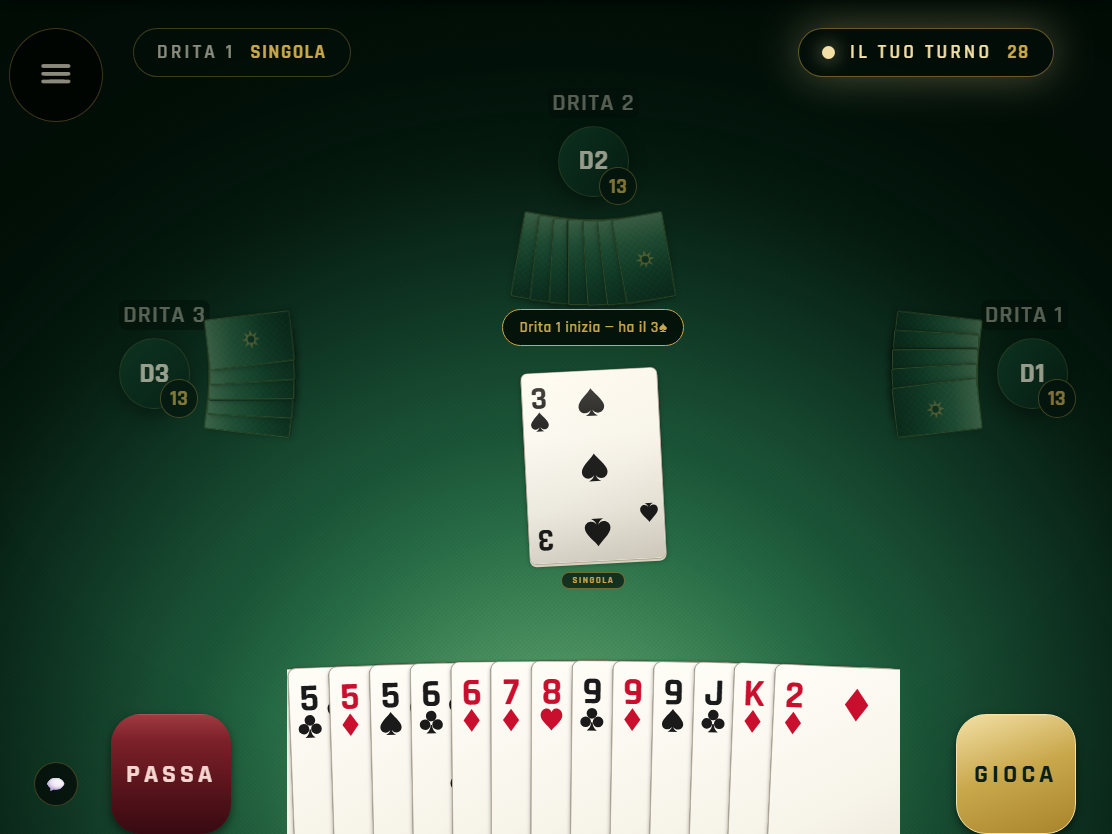
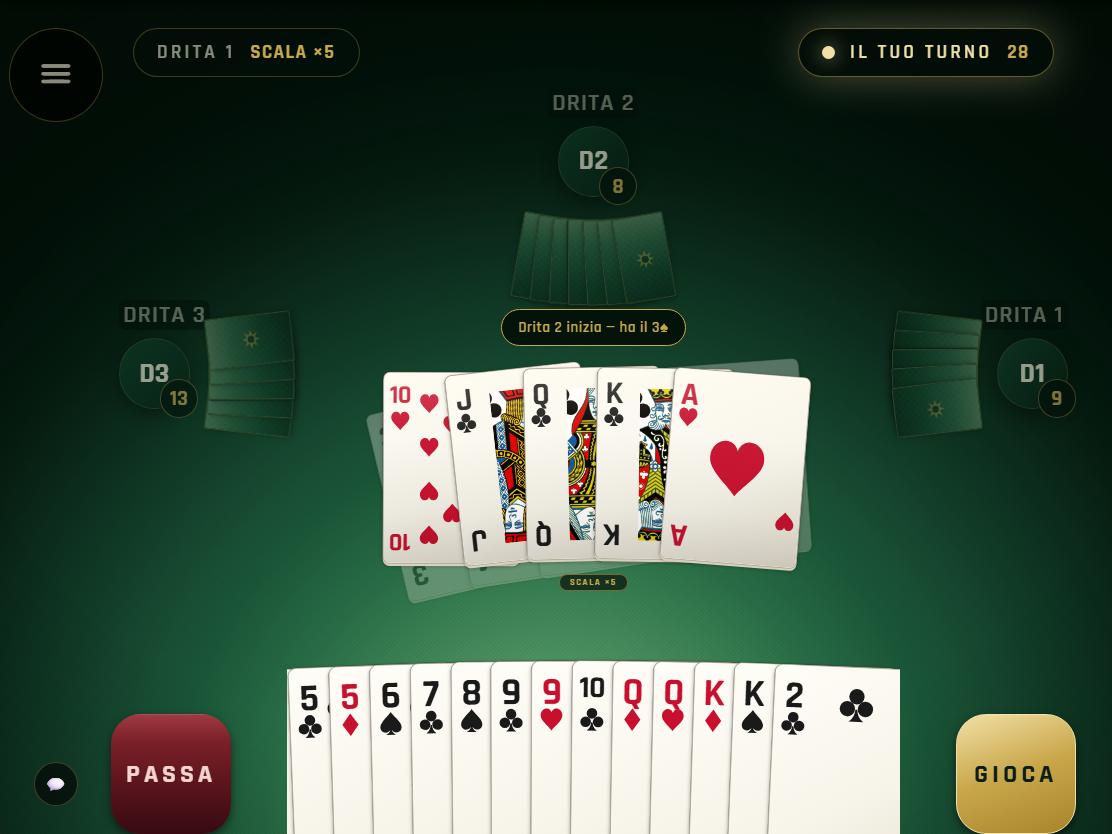
Say why the record goes stale, correctly
The reason given was wrong. `scripts/e2e-shard.mjs` splits by whole spec file,
so whichever shard draws this one runs all four viewports and does write a
complete record — onto a runner nothing commits or uploads from. CI computes
the right answer every run and discards it, which is a duller mechanism than
a partial write and the one that is true.

The per-viewport comparison stands unchanged; it never depended on the count.

Also extracts the key both sides of that comparison build, and gives the
phones' original spread as a range rather than one of its three values.

diff --git a/tests/e2e/onlineTableSurvey.spec.ts b/tests/e2e/onlineTableSurvey.spec.ts
@@ -40,19 +40,18 @@ const RECORD = path.join(AUDIT_DIR, "online-table.txt");
 /** Set to rewrite the record instead of being held to it. */
 const UPDATING = process.env.AUDIT_UPDATE === "1";
 
+const keyOf = (row: string) => row.split("\t").slice(0, 2).join("\t");
+
 /**
- * The record, by `MODE\tviewport`, so a shard can be held to the rows it
- * measured rather than to the whole file.
- *
- * Only a whole survey rewrites the record, and CI never runs a whole one — the
- * spec is sharded, so every CI run measured some of the four and wrote nothing.
- * Left at that, the record says whatever the last full local run said, and a
- * deliberate change to the table lands with no one asked to confirm it (#716).
+ * The record by `MODE\tviewport`, so a shard is held to the rows it measured.
+ * CI does write a whole one — the split is by spec file, so one shard runs all
+ * four — but onto a runner nothing commits from, so the checked-in copy only
+ * ever moves when someone runs the survey locally.
  */
 function recorded(): Map<string, string> {
   try {
     const lines = readFileSync(RECORD, "utf8").split("\n").filter(Boolean);
-    return new Map(lines.map((l) => [l.split("\t").slice(0, 2).join("\t"), l]));
+    return new Map(lines.map((l) => [keyOf(l), l]));
   } catch {
     return new Map();
   }
@@ -283,8 +282,7 @@ test.describe("the online table, at the audit's viewports", () => {
       if (!UPDATING) {
         const record = recorded();
         for (const row of measured) {
-          const key = row.split("\t").slice(0, 2).join("\t");
-          const was = record.get(key);
+          const was = record.get(keyOf(row));
           if (was === undefined) continue;
           expect(
             row,

diff --git a/docs/design/57-polish-audit/README.md b/docs/design/57-polish-audit/README.md
@@ -80,9 +80,10 @@ in `tests/e2e/onlineTableSurvey.spec.ts` holds them to. That check compares the 
 against the offline one, and nothing else: the two can drift together, and the band did,
 because a fix landed for it. What pins the band itself is `tests/tableProportions.test.ts`.
 
-`online-table.txt` is rewritten by every run of that spec, so it always reports the app as it
-is now. The `emptyBand` column below is the audit's own figure, kept because it is what
-finding 3 was raised on.
+`online-table.txt` is rewritten by every whole run of that spec, so it reports the app as it
+is now — but only a local run reaches this repository, since CI writes it onto a runner
+nothing commits from. The run is held to it either way. The `emptyBand` column below is the
+audit's own figure, kept because it is what finding 3 was raised on.
 
 `handSlot` is the box the fan gives one hand card — full height, and only the width the card
 beside it leaves uncovered. It is not `table.txt`'s `card`, which is a card on the felt.
@@ -98,7 +99,7 @@ beside it leaves uncovered. It is not `table.txt`'s `card`, which is a card on t
   between the lowest seat and the hand, against 94px of 309px on the smallest phone. It is
   the same table, so it is the same finding, and fixing it fixes both. #586 did, and the
   right-hand column is that fix: the tablet band falls to 31.6% of its table against the
-  phones' 29.8–30.6%, where it was 33.5% against the same 30.4%.
+  phones' 29.8–30.6%, where it was 33.5% against their 30.2–30.6%.
 - **The stretch class does not.** The six menu screens render the same content height at 390
   and 834 because nothing asks how much height there is. The table asks: its felt, its cards
   and its bands all grow with the window (309 → 806, 90 → 233). The void on a tablet table is
